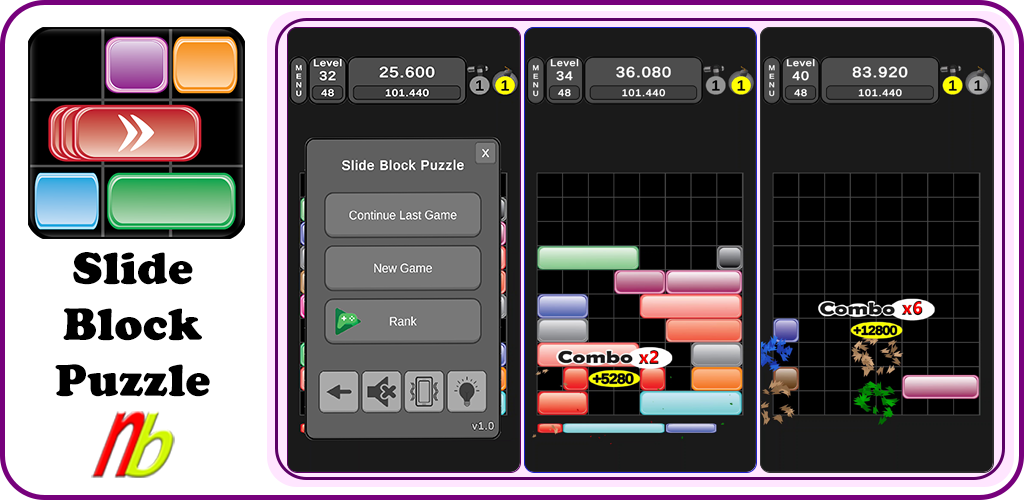
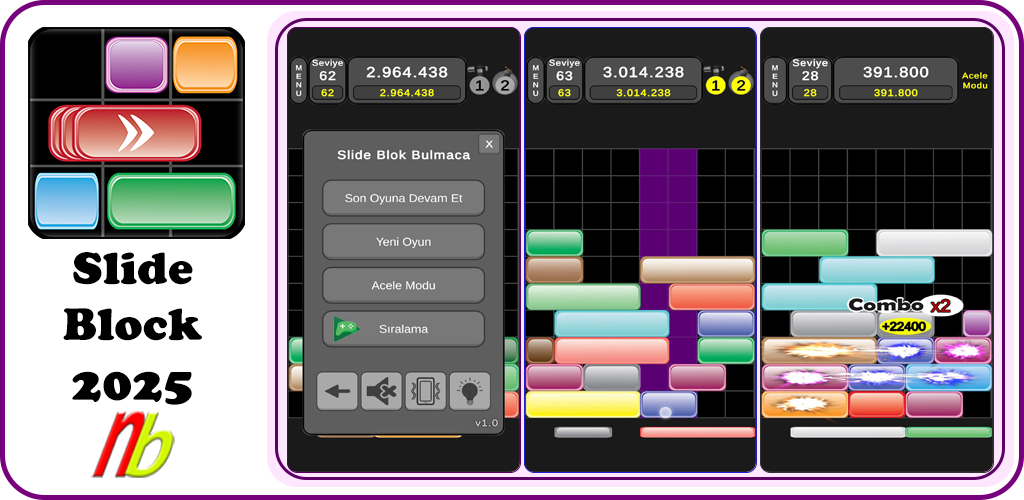
Slide Block Puzzle Updated
Slide Block Puzzle Updated

diff --git a/SlideBlockPuzzle/indexTr.html b/SlideBlockPuzzle/indexTr.html
@@ -37,31 +37,37 @@
 &nbsp;</td>
 				</tr>
 				<tr>
-					<td align="center" colspan="2">
+					<td align="center" valign="top" colspan="2">
 			<table border="1">
 				<tr>
 					<td>
-			<img border="0" src="images/01_Eng.png" width="250" height="444"></td>
+			<img border="0" src="images/01_Tr.jpg" width="250" height="444"></td>
 					<td>
-			<img border="0" src="images/02.png" width="250" height="444"></td>
+			<img border="0" src="images/02_Tr.jpg" width="250" height="444"></td>
 					<td>
-			<img border="0" src="images/03.png" width="250" height="444"></td>
+			<img border="0" src="images/03_Tr.jpg" width="250" height="444"></td>
+					<td>
+			<img border="0" src="images/04_Tr.jpg" width="250" height="444"></td>
 				</tr>
 			</table>
 					</td>
-				</tr>
+					</tr>
 				<tr>
-					<td align="center" colspan="2">
+					<td align="center" valign="top" colspan="2">
 			<table border="1">
 				<tr>
 					<td>
-			<img border="0" src="images/04.png" width="250" height="444"></td>
+			<img border="0" src="images/05_Tr.jpg" width="250" height="444"></td>
 					<td>
-			<img border="0" src="images/05.png" width="250" height="444"></td>
+			<img border="0" src="images/06_Tr.jpg" width="250" height="444"></td>
+					<td>
+			<img border="0" src="images/07_Tr.jpg" width="250" height="444"></td>
+					<td>
+			<img border="0" src="images/08_Tr.jpg" width="250" height="444"></td>
 				</tr>
 			</table>
 					</td>
-				</tr>
+					</tr>
 				<tr>
 					<td align="center" colspan="2">
 			<table border="0" width="98%">
@@ -111,6 +117,16 @@
 				<tr>
 					<td align="center" colspan="2">
 						<font size="7" color="#0000FF"><b>SoftNB Diğer Oyunlar</b></td>
+				</tr>
+				<tr>
+					<td style="border-style: solid; border-width: 1px" colspan="2" align="center">
+			<p align="center">
+				<font size="5">
+				<a href="../Drop7_2024/indexTr.html">
+				<img border="0" src="../Drop7_2024/images/OzellikGrafigi1024x500_NB_Drop7_2024_03Ekim2024.png" width="400" height="195"></a></font><p align="center">
+				<b><font size="5"><a href="../Drop7_2024/indexTr.html">Drop 7 - 
+				2024</a></font></b><br>
+&nbsp;</td>
 				</tr>
 				<tr>
 					<td style="border-style: solid; border-width: 1px" align="center">

diff --git a/SlideBlockPuzzle/index.html b/SlideBlockPuzzle/index.html
@@ -40,11 +40,13 @@
 			<table border="1">
 				<tr>
 					<td>
-			<img border="0" src="images/01_Eng.png" width="250" height="444"></td>
+			<img border="0" src="images/01_Eng.jpg" width="250" height="444"></td>
 					<td>
-			<img border="0" src="images/02.png" width="250" height="444"></td>
+			<img border="0" src="images/02_Eng.jpg" width="250" height="444"></td>
 					<td>
-			<img border="0" src="images/03.png" width="250" height="444"></td>
+			<img border="0" src="images/03_Eng.jpg" width="250" height="444"></td>
+					<td>
+			<img border="0" src="images/04_Eng.jpg" width="250" height="444"></td>
 				</tr>
 			</table>
 					</td>
@@ -54,9 +56,13 @@
 			<table border="1">
 				<tr>
 					<td>
-			<img border="0" src="images/04.png" width="250" height="444"></td>
+			<img border="0" src="images/05_Eng.jpg" width="250" height="444"></td>
 					<td>
-			<img border="0" src="images/05.png" width="250" height="444"></td>
+			<img border="0" src="images/06_Eng.jpg" width="250" height="444"></td>
+					<td>
+			<img border="0" src="images/07_Eng.jpg" width="250" height="444"></td>
+					<td>
+			<img border="0" src="images/08_Eng.jpg" width="250" height="444"></td>
 				</tr>
 			</table>
 					</td>
@@ -110,6 +116,17 @@
 				<font size="7" color="#0000FF">
 			<b>More by SoftNB</b></td>
 				</tr>
+				<tr>
+					<td style="border-style: solid; border-width: 1px" align="center" colspan="2">
+			<p align="center">
+				&nbsp;<p align="center">
+				<font size="5">
+				<a href="../Drop7_2024/index.html">
+				<img border="0" src="../Drop7_2024/images/OzellikGrafigi1024x500_NB_Drop7_2024_03Ekim2024.png" width="400" height="195"></a></font><p align="center">
+				<b><font size="5"><a href="../Drop7_2024/index.html">Drop 7 - 
+				2024</a></font></b><p align="center">
+				&nbsp;</td>
+					</tr>
 				<tr>
 					<td style="border-style: solid; border-width: 1px" align="center">
 			<p align="center">
